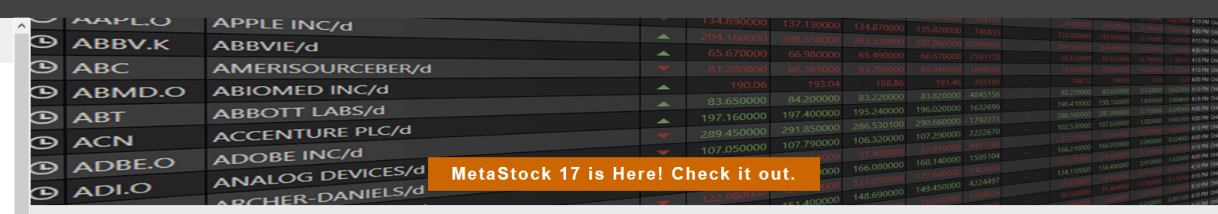
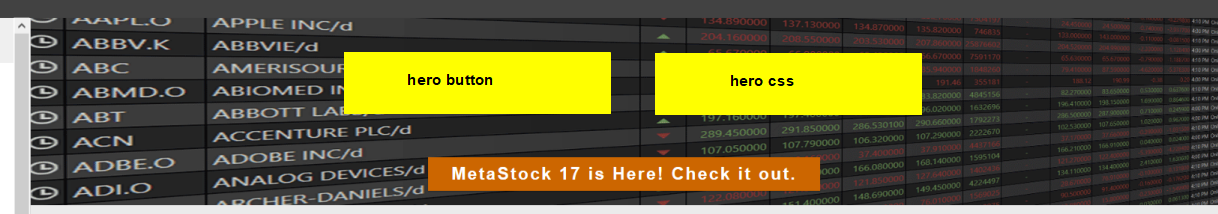
forgot to add links to forum posts in docs

Changed region(s): [[0.5304, 0.2243, 0.78, 0.5607], [0.2808, 0.2243, 0.4992, 0.5327]]

diff --git a/web content/mktg/home/readme.md b/web content/mktg/home/readme.md
@@ -2,6 +2,10 @@
 
 ## hero
 
+https://forum.metastock.com/posts/t155749-hero-css
+
+https://forum.metastock.com/posts/t155748-hero-button
+
 At the very top of the page there is a hero image and usually a cta.
 
 ![Presenters swag section](https://raw.githubusercontent.com/llihak/Gregs-Forum-Code/master/web%20content/images/forum-homepage-hero.png)
@@ -10,6 +14,10 @@ At the very top of the page there is a hero image and usually a cta.
 
 
 ## featured content
+
+https://forum.metastock.com/posts/t154984-banner-third
+https://forum.metastock.com/posts/t154983-banner-second
+https://forum.metastock.com/posts/t154982-banner-main
 
 About half way down the page there is a section for featured content.    Seminars, traders-summit, conference, freebook, etc.
 
